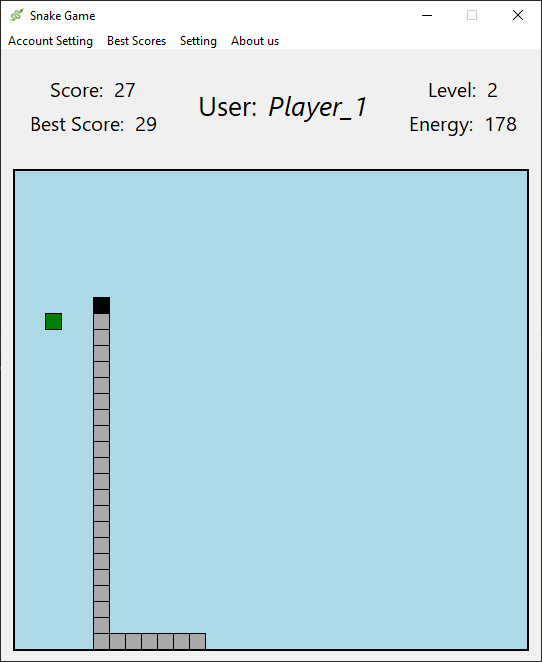
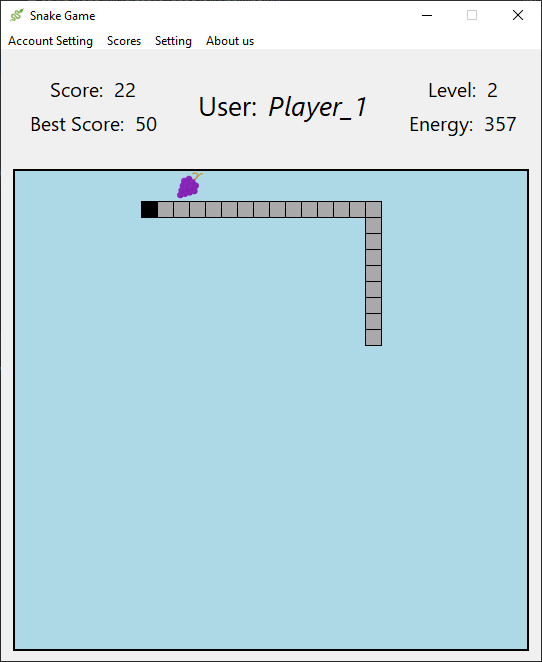
Show image instead of square for bait

diff --git a/model.py b/model.py
@@ -21,11 +21,16 @@ def get_geometry(root):
     return f"{meta.main_width}x{meta.main_height}+{start_width}+{start_height}"
 
 
-def check_collision(canvas, obj1, obj2):
+def check_collision(canvas, obj1, obj2, obj1_is_image=False, obj1_size=None, obj2_is_image=False, obj2_size=None):
     """ This func get two objects & check their collision """
 
     crd_a = canvas.coords(obj1)
     crd_b = canvas.coords(obj2)
+
+    if obj1_is_image:  # images' coords only consist center position
+        crd_a = get_coords(*crd_a, obj1_size)
+    if obj2_is_image:
+        crd_b = get_coords(*crd_b, obj2_size)
 
     if (crd_a[0] <= crd_b[0] < crd_a[2] or crd_a[0] < crd_b[2] <= crd_a[2]) and \
        (crd_a[1] <= crd_b[1] < crd_a[3] or crd_a[1] < crd_b[3] <= crd_a[3]):
@@ -34,17 +39,36 @@ def check_collision(canvas, obj1, obj2):
     return False
 
 
-def get_position(canvas, item):
+def get_position(canvas, item, is_image=False):
     """ return center position of item """
 
     coords = canvas.coords(item)
+
+    if is_image:
+        return coords[0], coords[1]
+
     return ((coords[2] - coords[0]) / 2) + coords[0], ((coords[3] - coords[1]) / 2) + coords[1]
 
 
-def move(canvas, item, x, y):
+def get_coords(x, y, size):
+    """ return coords of an object from center & size """
+
+    half_size = size / 2
+    coords = [
+        x - half_size,
+        y - half_size,
+        x + half_size,
+        y + half_size
+    ]
+
+    return coords
+
+
+def move(canvas, item, x, y, is_image=False):
     """ give an object, then first move to 0-0 after to x-y """
 
-    item_pos = get_position(canvas, item)
+    item_pos = get_position(canvas, item, is_image=is_image)
+
     canvas.move(item, -item_pos[0], -item_pos[1])
     canvas.move(item, x, y)
 
@@ -101,7 +125,7 @@ class App(tk.Frame):
         self.canvas = tk.Canvas(self, width=meta.frame_width, height=meta.frame_height,
                                 highlightthickness=1.5, highlightbackground='black')
         self.snake = Snake(self.user, self.canvas, size=16)
-        self.bait = Bait(self.canvas, size=16, score=30, timeout=60, color='green')
+        self.bait = Bait(self.canvas, size=32, score=30, timeout=60)
         self.set_level(meta.default_level)
         self.update_personalizations()
 
@@ -162,7 +186,7 @@ class App(tk.Frame):
                 break
 
     def check_eating_bait(self):
-        if check_collision(self.canvas, self.snake.head, self.bait.item):
+        if check_collision(self.canvas, self.snake.head, self.bait.item, obj2_is_image=True, obj2_size=self.bait.size):
             self.bait.move()
             self.snake.grow()
             self.energy.set(self.energy.get() + self.bait.score)

diff --git a/elements.py b/elements.py
@@ -1,31 +1,30 @@
+import tkinter as tk
 import random
+
 import model
 import meta
 
 
 class Bait:
-    def __init__(self, canvas, size, score: 'score for eating', timeout, color):
+    def __init__(self, canvas, size, score: 'score for eating', timeout):
         self.size = size
         self.half_size = self.size / 2
         self.score = score
         self.timeout = timeout
         self.timer = timeout
         self.canvas = canvas
+        self.photo = tk.PhotoImage(file=r"Files\grape.png")
 
         self.x = random.randrange(self.half_size, meta.frame_width, self.size)
         self.y = random.randrange(self.half_size, meta.frame_height, self.size)
-        self.item = self.canvas.create_rectangle(self.x - self.half_size,
-                                                 self.y - self.half_size,
-                                                 self.x + self.half_size,
-                                                 self.y + self.half_size,
-                                                 fill=color)
+        self.item = self.canvas.create_image(self.x, self.y, image=self.photo)
 
     def move(self):
         self.timer = self.timeout
 
         self.x = random.randrange(self.half_size, (meta.frame_width - (self.size + self.half_size)), self.size)
         self.y = random.randrange(self.half_size, (meta.frame_width - (self.size + self.half_size)), self.size)
-        model.move(self.canvas, self.item, self.x, self.y)
+        model.move(self.canvas, self.item, self.x, self.y, is_image=True)
 
     def reset(self):
         self.move()
